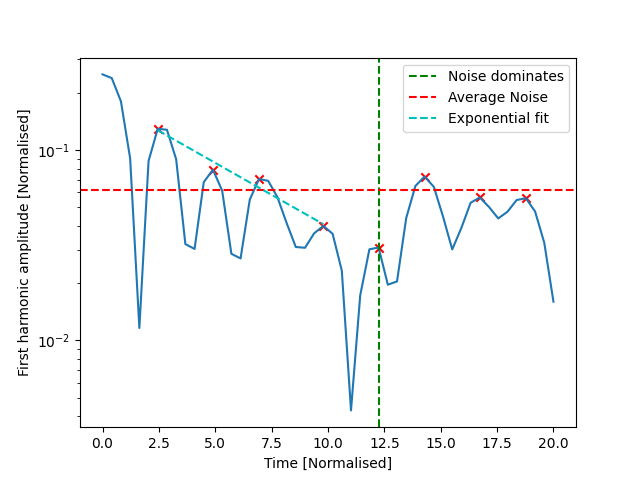
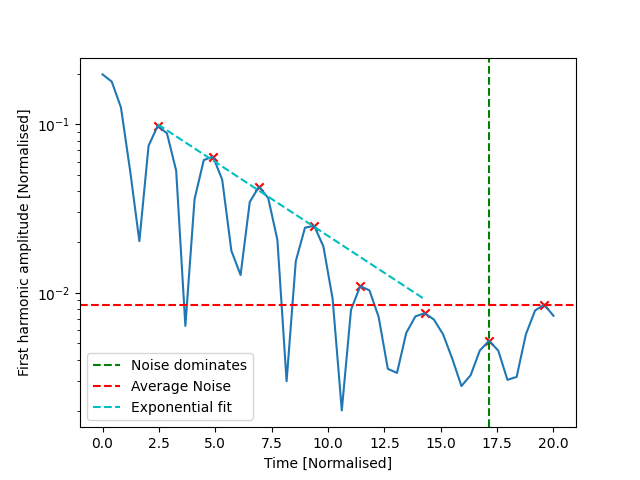
day2

diff --git a/noise_assess.py b/noise_assess.py
@@ -43,8 +43,10 @@ time_signal = time[:noise_co]
 time_noise = time[noise_co:]
 
 # Average peaks of noise
-noise_peaks = noise[find_peaks(noise)[0]]
+noise_peaks_indexes = find_peaks(noise)[0]
+noise_peaks = noise[noise_peaks_indexes]
 noise_peak_average = np.mean(noise_peaks)
+time_noise_peaks = time_noise[noise_peaks_indexes]
 
 # Find signal peaks annd time signal peaks
 signal_peaks_indexes = find_peaks(signal)[0]
@@ -61,9 +63,11 @@ signal_freq = np.mean(1/time_signal_spacing)
 time_diff = np.diff(time_signal_peaks)
 time_std = np.std(time_diff)
 freq_error = time_std/np.mean(time_diff)**2
-print(f"Signal frequency = {signal_freq} +/- {freq_error}")
+print(f"Signal frequency = {2*np.pi*signal_freq} +/- {2*np.pi*freq_error}") # omega =2*pi*f
 
 # Fitting Functions
-params, covariance = curve_fit(exponential, time_signal_peaks, signal_peaks)
-sig_fit = exponential(time_signal_peaks, *params)
-print(f'Damping rate = {-1*params[1]} +/- {covariance[1][1]}')
+params_sig, covariance_sig = curve_fit(exponential, time_signal_peaks, signal_peaks)
+sig_fit = exponential(time_signal_peaks, *params_sig)
+print(f'Damping rate = {-1*params_sig[1]} +/- {covariance_sig[1][1]}')
+
+# params_noise, covariance_noise = curve_fit(linear, time_noise_peaks, noise_peaks)

diff --git a/plot.py b/plot.py
@@ -8,6 +8,7 @@ plt.scatter(peak_times, peaks, marker = 'x', color = 'red')
 plt.axvline(time_co, color='g', linestyle='--', label='Noise dominates')
 plt.axhline(noise_peak_average, color='r', linestyle='--', label='Average Noise')
 plt.plot(time_signal_peaks, sig_fit, color='c', linestyle='--', label='Exponential fit')
+# plt.plot(time_noise_peaks, noise_peaks, color='m', linestyle='--', label='Exponential fit')
 plt.xlabel("Time [Normalised]")
 plt.ylabel("First harmonic amplitude [Normalised]")
 plt.yscale('log')

diff --git a/epic1d.py b/epic1d.py
@@ -272,12 +272,15 @@ def twostream(npart, L, vbeam=2):
 def exponential(x, a, b):
     return a * exp(b * x)
 
+def linear(x, m, c):
+    return m * x + c
+
 ####################################################################
 
 if __name__ == "__main__":
     # Generate initial condition
     # 
-    npart = 1000   
+    npart = 20000   
     if False:
         # 2-stream instability
         L = 100
